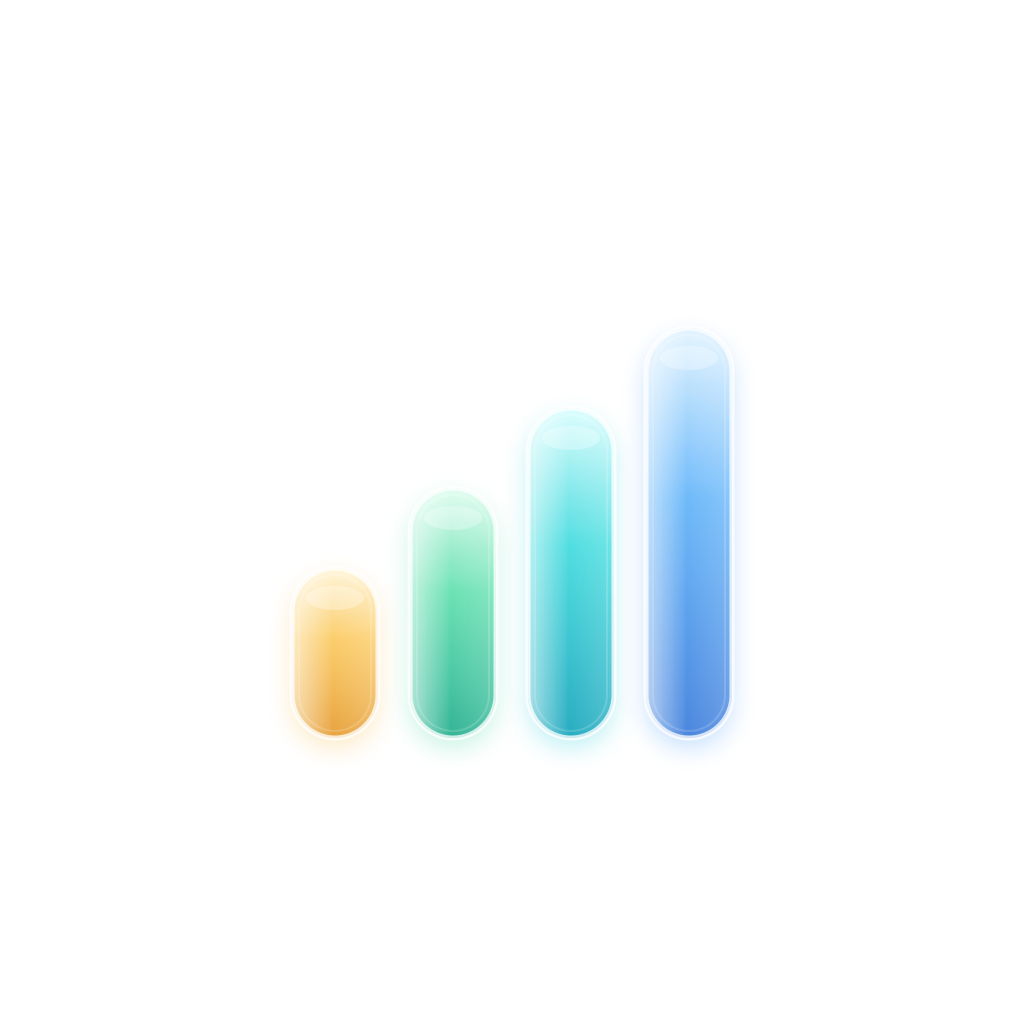
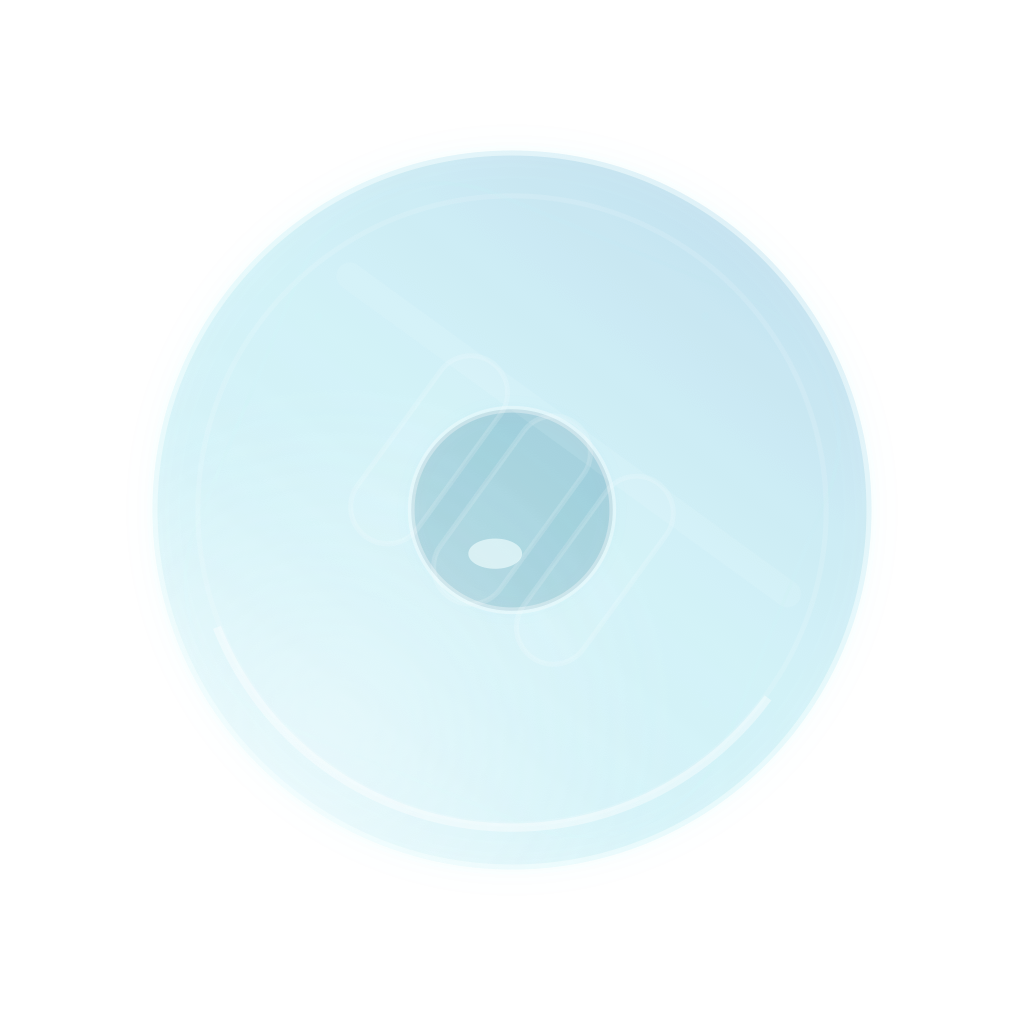
刷新 Liquid Glass 应用图标

diff --git a/scripts/generate-icon.swift b/scripts/generate-icon.swift
@@ -99,146 +99,241 @@ func drawRadialGlow(
   )
 }
 
+func drawAxisWhisper(in context: CGContext) {
+  let center = CGPoint(x: 512, y: 514)
+
+  // A barely-there gimbal frame. It reads as refraction before it reads as a
+  // literal shape, which keeps the DJI reference intentionally hidden.
+  context.saveGState()
+  context.translateBy(x: center.x, y: center.y)
+  context.rotate(by: -.pi / 8)
+  context.setBlendMode(.screen)
+
+  let frameRect = CGRect(x: -286, y: -286, width: 572, height: 572)
+  let frame = CGPath(
+    roundedRect: frameRect,
+    cornerWidth: 154,
+    cornerHeight: 154,
+    transform: nil
+  )
+  context.addPath(frame)
+  context.setStrokeColor(color(222, 250, 255, alpha: 0.045))
+  context.setLineWidth(4)
+  context.setShadow(
+    offset: .zero,
+    blur: 22,
+    color: color(79, 205, 236, alpha: 0.055)
+  )
+  context.strokePath()
+  context.restoreGState()
+
+  // Four pinpricks are the only explicit nod to a gimbal's mounting points.
+  context.saveGState()
+  context.setBlendMode(.screen)
+  let nodeRadius: CGFloat = 4
+  let nodeDistance: CGFloat = 274
+  let nodeAngles = [CGFloat.pi / 4, 3 * CGFloat.pi / 4, 5 * CGFloat.pi / 4, 7 * CGFloat.pi / 4]
+  for angle in nodeAngles {
+    let nodeCenter = CGPoint(
+      x: center.x + cos(angle) * nodeDistance,
+      y: center.y + sin(angle) * nodeDistance
+    )
+    context.setFillColor(color(220, 250, 255, alpha: 0.045))
+    context.fillEllipse(
+      in: CGRect(
+        x: nodeCenter.x - nodeRadius,
+        y: nodeCenter.y - nodeRadius,
+        width: nodeRadius * 2,
+        height: nodeRadius * 2
+      )
+    )
+  }
+  context.restoreGState()
+}
+
 let ambientGlow = try renderPNG { context in
   context.setBlendMode(.screen)
   try drawRadialGlow(
     in: context,
     center: CGPoint(x: 512, y: 490),
     radius: 360,
-    glowColor: color(44, 183, 211, alpha: 0.26)
+    glowColor: color(44, 183, 211, alpha: 0.18)
   )
   try drawRadialGlow(
     in: context,
-    center: CGPoint(x: 326, y: 345),
-    radius: 210,
-    glowColor: color(245, 173, 66, alpha: 0.16)
+    center: CGPoint(x: 326, y: 350),
+    radius: 205,
+    glowColor: color(245, 173, 66, alpha: 0.075)
   )
   try drawRadialGlow(
     in: context,
-    center: CGPoint(x: 690, y: 610),
-    radius: 250,
-    glowColor: color(63, 126, 246, alpha: 0.18)
+    center: CGPoint(x: 700, y: 600),
+    radius: 260,
+    glowColor: color(63, 126, 246, alpha: 0.12)
   )
 }
 
-let barWidth: CGFloat = 86
-let barGap: CGFloat = 32
-let barHeights: [CGFloat] = [170, 250, 330, 410]
-let totalBarWidth = barWidth * CGFloat(barHeights.count)
-  + barGap * CGFloat(barHeights.count - 1)
-let firstBarX = (CGFloat(canvasSize) - totalBarWidth) / 2
-let baseline: CGFloat = 286
+func drawHiddenDJIReflection(in context: CGContext, clippingPath: CGPath) {
+  context.saveGState()
+  context.addPath(clippingPath)
+  context.clip()
+  context.translateBy(x: 512, y: 514)
+  context.rotate(by: -.pi / 5)
+  context.setBlendMode(.screen)
 
-let barColors: [(top: CGColor, middle: CGColor, bottom: CGColor, glow: CGColor)] = [
-  (
-    color(255, 246, 214, alpha: 0.96),
-    color(248, 190, 76, alpha: 0.90),
-    color(219, 133, 33, alpha: 0.92),
-    color(246, 174, 55, alpha: 0.34)
-  ),
-  (
-    color(224, 255, 240, alpha: 0.96),
-    color(81, 218, 157, alpha: 0.90),
-    color(30, 155, 119, alpha: 0.92),
-    color(56, 206, 148, alpha: 0.32)
-  ),
-  (
-    color(218, 255, 255, alpha: 0.96),
-    color(56, 211, 213, alpha: 0.90),
-    color(24, 143, 169, alpha: 0.92),
-    color(41, 197, 210, alpha: 0.34)
-  ),
-  (
-    color(224, 243, 255, alpha: 0.97),
-    color(81, 162, 247, alpha: 0.92),
-    color(43, 95, 207, alpha: 0.94),
-    color(70, 143, 244, alpha: 0.36)
-  ),
-]
-
-let signalBars = try renderPNG { context in
-  for index in barHeights.indices {
-    let x = firstBarX + CGFloat(index) * (barWidth + barGap)
-    let height = barHeights[index]
-    let rect = CGRect(x: x, y: baseline, width: barWidth, height: height)
-    let radius = barWidth / 2
+  // Three quiet, rounded reflections. Together they echo DJI's three-band
+  // mark, but the low contrast and lens refraction keep it from becoming a
+  // copy of the wordmark.
+  let barWidth: CGFloat = 44
+  let barHeight: CGFloat = 128
+  let barGap: CGFloat = 17
+  let firstX = -barWidth * 1.5 - barGap
+  for index in 0..<3 {
+    let x = firstX + CGFloat(index) * (barWidth + barGap)
+    let rect = CGRect(x: x, y: -barHeight / 2, width: barWidth, height: barHeight)
     let path = CGPath(
       roundedRect: rect,
-      cornerWidth: radius,
-      cornerHeight: radius,
+      cornerWidth: barWidth / 2,
+      cornerHeight: barWidth / 2,
       transform: nil
     )
-    let palette = barColors[index]
-
-    context.saveGState()
-    context.setShadow(
-      offset: CGSize(width: 0, height: -10),
-      blur: 26,
-      color: palette.glow
-    )
     context.addPath(path)
-    context.setFillColor(palette.middle)
-    context.fillPath()
-    context.restoreGState()
-
-    context.saveGState()
-    context.addPath(path)
-    context.clip()
-    let verticalFill = try gradient(
-      colors: [palette.bottom, palette.middle, palette.top],
-      locations: [0, 0.58, 1]
-    )
-    context.drawLinearGradient(
-      verticalFill,
-      start: CGPoint(x: rect.midX, y: rect.minY),
-      end: CGPoint(x: rect.midX, y: rect.maxY),
-      options: []
-    )
-
-    context.setBlendMode(.screen)
-    let edgeRefraction = try gradient(
-      colors: [
-        color(255, 255, 255, alpha: 0.62),
-        color(255, 255, 255, alpha: 0.08),
-        color(255, 255, 255, alpha: 0.24),
-      ],
-      locations: [0, 0.48, 1]
-    )
-    context.drawLinearGradient(
-      edgeRefraction,
-      start: CGPoint(x: rect.minX, y: rect.midY),
-      end: CGPoint(x: rect.maxX, y: rect.midY),
-      options: []
-    )
-
-    let topHighlight = CGRect(
-      x: rect.minX + 14,
-      y: rect.maxY - 42,
-      width: rect.width - 28,
-      height: 24
-    )
-    context.setFillColor(color(255, 255, 255, alpha: 0.28))
-    context.fillEllipse(in: topHighlight)
-    context.restoreGState()
-
-    context.addPath(path)
-    context.setStrokeColor(color(255, 255, 255, alpha: 0.76))
-    context.setLineWidth(5)
-    context.strokePath()
-
-    let innerRect = rect.insetBy(dx: 7, dy: 7)
-    context.addPath(
-      CGPath(
-        roundedRect: innerRect,
-        cornerWidth: max(1, radius - 7),
-        cornerHeight: max(1, radius - 7),
-        transform: nil
-      )
-    )
-    context.setStrokeColor(color(255, 255, 255, alpha: 0.16))
-    context.setLineWidth(2)
-    context.strokePath()
+    context.setFillColor(color(238, 255, 255, alpha: 0.075))
+    context.setStrokeColor(color(255, 255, 255, alpha: 0.15))
+    context.setLineWidth(3)
+    context.drawPath(using: .fillStroke)
   }
+
+  // A soft oblique highlight makes the bars feel embedded in the glass,
+  // rather than stamped on top of it.
+  let highlightRect = CGRect(x: -168, y: 48, width: 338, height: 16)
+  let highlight = CGPath(
+    roundedRect: highlightRect,
+    cornerWidth: 8,
+    cornerHeight: 8,
+    transform: nil
+  )
+  context.addPath(highlight)
+  context.setFillColor(color(255, 255, 255, alpha: 0.08))
+  context.fillPath()
+  context.restoreGState()
+}
+
+func drawGlassLens(in context: CGContext) throws {
+  let center = CGPoint(x: 512, y: 514)
+
+  // Give the glass core a little more presence at Dock size while keeping
+  // the outer gimbal whisper comfortably in the background.
+  context.saveGState()
+  context.translateBy(x: center.x, y: center.y)
+  context.scaleBy(x: 1.68, y: 1.68)
+  context.translateBy(x: -center.x, y: -center.y)
+  defer { context.restoreGState() }
+
+  let lensRect = CGRect(x: 298, y: 300, width: 428, height: 428)
+  let lensPath = CGPath(ellipseIn: lensRect, transform: nil)
+
+  context.saveGState()
+  context.addPath(lensPath)
+  context.setFillColor(color(78, 202, 229, alpha: 0.14))
+  context.setShadow(
+    offset: .zero,
+    blur: 38,
+    color: color(43, 183, 225, alpha: 0.22)
+  )
+  context.fillPath()
+  context.restoreGState()
+
+  context.saveGState()
+  context.addPath(lensPath)
+  context.clip()
+  let lensGradient = try gradient(
+    colors: [
+      color(244, 255, 255, alpha: 0.28),
+      color(88, 197, 218, alpha: 0.12),
+      color(45, 91, 165, alpha: 0.22),
+    ],
+    locations: [0, 0.48, 1]
+  )
+  context.drawLinearGradient(
+    lensGradient,
+    start: CGPoint(x: 360, y: 330),
+    end: CGPoint(x: 690, y: 740),
+    options: []
+  )
+
+  context.setBlendMode(.screen)
+  let highlight = try gradient(
+    colors: [
+      color(255, 255, 255, alpha: 0.22),
+      color(255, 255, 255, alpha: 0),
+    ],
+    locations: [0, 1]
+  )
+  context.drawRadialGradient(
+    highlight,
+    startCenter: CGPoint(x: 410, y: 390),
+    startRadius: 0,
+    endCenter: CGPoint(x: 410, y: 390),
+    endRadius: 200,
+    options: [.drawsAfterEndLocation]
+  )
+  context.restoreGState()
+
+  context.addPath(lensPath)
+  context.setStrokeColor(color(246, 255, 255, alpha: 0.52))
+  context.setLineWidth(6)
+  context.strokePath()
+
+  let innerRect = lensRect.insetBy(dx: 27, dy: 27)
+  context.addEllipse(in: innerRect)
+  context.setStrokeColor(color(255, 255, 255, alpha: 0.12))
+  context.setLineWidth(3)
+  context.strokePath()
+
+  drawHiddenDJIReflection(in: context, clippingPath: lensPath)
+
+  // A small floating hub finishes the gimbal reference without turning the
+  // icon into an obvious camera or drone illustration.
+  context.saveGState()
+  context.setBlendMode(.screen)
+  context.addEllipse(in: CGRect(x: 452, y: 454, width: 120, height: 120))
+  context.setFillColor(color(8, 39, 64, alpha: 0.23))
+  context.setShadow(
+    offset: .zero,
+    blur: 18,
+    color: color(23, 184, 225, alpha: 0.22)
+  )
+  context.fillPath()
+  context.restoreGState()
+
+  context.addEllipse(in: CGRect(x: 452, y: 454, width: 120, height: 120))
+  context.setStrokeColor(color(255, 255, 255, alpha: 0.34))
+  context.setLineWidth(4)
+  context.strokePath()
+
+  context.setFillColor(color(239, 255, 255, alpha: 0.62))
+  context.fillEllipse(in: CGRect(x: 486, y: 479, width: 32, height: 18))
+
+  // One clean specular arc gives the core its liquid-glass edge.
+  context.saveGState()
+  context.setBlendMode(.screen)
+  context.addArc(
+    center: center,
+    radius: 189,
+    startAngle: 3.52,
+    endAngle: 5.65,
+    clockwise: false
+  )
+  context.setStrokeColor(color(255, 255, 255, alpha: 0.40))
+  context.setLineWidth(5)
+  context.strokePath()
+  context.restoreGState()
+}
+
+let signalBars = try renderPNG { context in
+  drawAxisWhisper(in: context)
+  try drawGlassLens(in: context)
 }
 
 for outputDirectory in outputDirectories {
